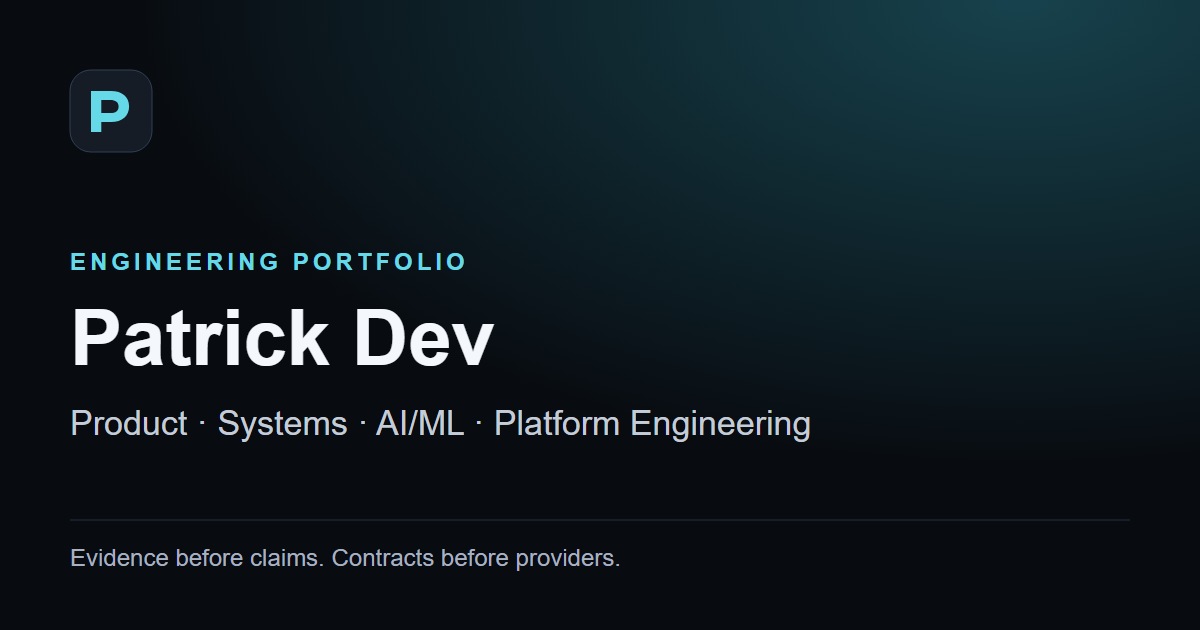
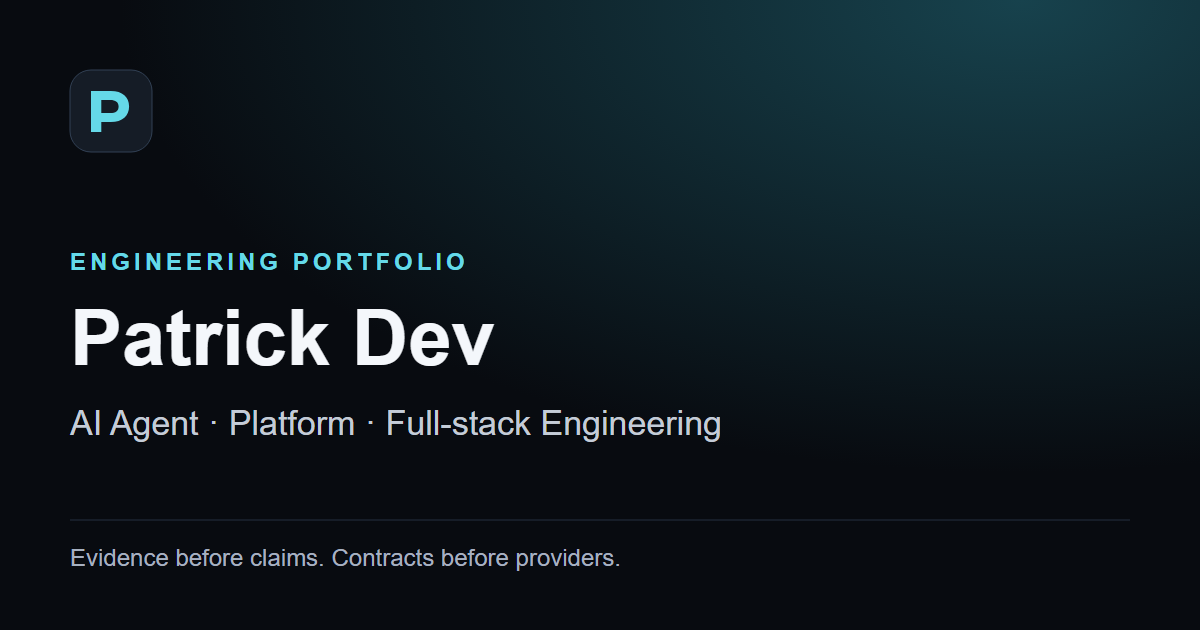
feat(portfolio): align public engineering identity (#7)

Changed region(s): [[0.0617, 0.6333, 0.6783, 0.6937]]

diff --git a/site/index.html b/site/index.html
@@ -3,8 +3,8 @@
   <head>
     <meta charset="utf-8">
     <meta name="viewport" content="width=device-width, initial-scale=1">
-    <title>Patrick Dev (PatrickDev-it) — Product &amp; Systems Engineer</title>
-    <meta name="description" content="Patrick Dev's evidence-led engineering portfolio: applied AI systems, bounded local operations, full-stack products, and privacy infrastructure.">
+    <title>Patrick Dev — AI Agent, Platform &amp; Full-stack Engineer</title>
+    <meta name="description" content="Patrick Dev's evidence-led portfolio for AI agents, platform engineering, and full-stack products, backed by bounded execution and release evidence.">
     <meta name="author" content="Patrick Dev">
     <meta name="google-site-verification" content="SDRpU9uekSorB0AMVWqNsg15J1lCjftGlEs79zDA-KM">
     <meta name="robots" content="index,follow,max-image-preview:large,max-snippet:-1,max-video-preview:-1">
@@ -20,16 +20,16 @@
     <meta property="og:type" content="profile">
     <meta property="og:locale" content="en_US">
     <meta property="og:site_name" content="Patrick Dev Engineering Portfolio">
-    <meta property="og:title" content="Patrick Dev (PatrickDev-it) — Engineering Portfolio">
-    <meta property="og:description" content="Applied AI systems, bounded local operations, full-stack products, and privacy infrastructure backed by verifiable evidence.">
+    <meta property="og:title" content="Patrick Dev — AI Agent, Platform &amp; Full-stack Engineer">
+    <meta property="og:description" content="AI agents, platform engineering, and full-stack products backed by bounded execution, portable operations, and verifiable release evidence.">
     <meta property="og:url" content="https://patrickdev-it.github.io/">
     <meta property="og:image" content="https://patrickdev-it.github.io/assets/social-card.png">
     <meta property="og:image:width" content="1200">
     <meta property="og:image:height" content="630">
-    <meta property="og:image:alt" content="Patrick Dev engineering portfolio: Product, Systems, AI/ML, and Platform Engineering">
+    <meta property="og:image:alt" content="Patrick Dev engineering portfolio: AI Agent, Platform, and Full-stack Engineering">
     <meta name="twitter:card" content="summary_large_image">
-    <meta name="twitter:title" content="Patrick Dev (PatrickDev-it) — Engineering Portfolio">
-    <meta name="twitter:description" content="Applied AI systems, bounded local operations, full-stack products, and privacy infrastructure backed by verifiable evidence.">
+    <meta name="twitter:title" content="Patrick Dev — AI Agent, Platform &amp; Full-stack Engineer">
+    <meta name="twitter:description" content="AI agents, platform engineering, and full-stack products backed by bounded execution, portable operations, and verifiable release evidence.">
     <meta name="twitter:image" content="https://patrickdev-it.github.io/assets/social-card.png">
     <meta name="twitter:image:alt" content="Patrick Dev engineering portfolio">
     <script type="application/ld+json">
@@ -49,9 +49,9 @@
             "@type": "ProfilePage",
             "@id": "https://patrickdev-it.github.io/#profile-page",
             "url": "https://patrickdev-it.github.io/",
-            "name": "Patrick Dev (PatrickDev-it) — Product & Systems Engineer",
+            "name": "Patrick Dev — AI Agent, Platform & Full-stack Engineer",
             "dateCreated": "2026-07-22",
-            "dateModified": "2026-07-22",
+            "dateModified": "2026-07-23",
             "inLanguage": "en",
             "isPartOf": {"@id": "https://patrickdev-it.github.io/#website"},
             "mainEntity": {"@id": "https://patrickdev-it.github.io/#patrick-dev"}
@@ -62,15 +62,16 @@
             "name": "Patrick Dev",
             "alternateName": "PatrickDev-it",
             "url": "https://patrickdev-it.github.io/",
-            "jobTitle": "Product & Systems Engineer",
-            "description": "Product and systems engineer building applied AI systems, bounded local operations, durable products, and privacy infrastructure.",
+            "jobTitle": "AI Agent, Platform & Full-stack Engineer",
+            "description": "Engineer building AI agents, platform capabilities, and full-stack products with bounded execution, durable workflows, portable operations, and release evidence.",
             "homeLocation": {"@type": "Place", "name": "Rome, Italy"},
             "sameAs": [
               "https://github.com/PatrickDev-it",
               "https://www.linkedin.com/in/patrickdev-it/"
             ],
             "knowsAbout": [
-              "Applied AI systems",
+              "AI agent engineering",
+              "Platform engineering",
               "Full-stack product engineering",
               "AI evaluation",
               "System operations",
@@ -113,11 +114,11 @@
 
     <main id="main">
       <section class="hero shell" aria-labelledby="hero-title">
-        <p class="eyebrow">Product · Systems · AI/ML · Platform Engineering</p>
+        <p class="eyebrow">AI Agent · Platform · Full-stack Engineering</p>
         <h1 id="hero-title">Engineering work designed to be verified.</h1>
         <p class="lead">
-          I build systems whose claims can be tested: applied AI tooling, bounded local operations,
-          durable product workflows, and authenticated privacy infrastructure.
+          I design, build, and deploy AI agents and product systems across model/runtime integration,
+          bounded tool execution, backend and web boundaries, infrastructure, and release evidence.
         </p>
         <div class="actions">
           <a class="button primary" href="#selected-work">Review selected work</a>

diff --git a/site/about/index.html b/site/about/index.html
@@ -4,7 +4,7 @@
     <meta charset="utf-8">
     <meta name="viewport" content="width=device-width, initial-scale=1">
     <title>About Patrick Dev (PatrickDev-it) — Engineering Method</title>
-    <meta name="description" content="Patrick Dev's engineering scope, operating principles, portfolio strategy, and evidence-led approach to product, systems, AI/ML, and platform work.">
+    <meta name="description" content="Patrick Dev's engineering scope and evidence-led approach to AI agents, platform capabilities, full-stack products, reliability, and portable operations.">
     <meta name="author" content="Patrick Dev">
     <meta name="robots" content="index,follow,max-image-preview:large,max-snippet:-1">
     <meta name="referrer" content="no-referrer">
@@ -19,7 +19,7 @@
     <meta property="og:locale" content="en_US">
     <meta property="og:site_name" content="Patrick Dev Engineering Portfolio">
     <meta property="og:title" content="About Patrick Dev — Engineering Method and Scope">
-    <meta property="og:description" content="An evidence-led approach to product, systems, AI/ML, reliability, and portable operations.">
+    <meta property="og:description" content="An evidence-led approach to AI agents, platform engineering, full-stack products, reliability, and portable operations.">
     <meta property="og:url" content="https://patrickdev-it.github.io/about/">
     <meta property="og:image" content="https://patrickdev-it.github.io/assets/social-card.png">
     <meta property="og:image:width" content="1200">
@@ -27,7 +27,7 @@
     <meta property="og:image:alt" content="Patrick Dev engineering portfolio">
     <meta name="twitter:card" content="summary_large_image">
     <meta name="twitter:title" content="About Patrick Dev (PatrickDev-it) — Engineering Method">
-    <meta name="twitter:description" content="An evidence-led approach to product, systems, AI/ML, reliability, and portable operations.">
+    <meta name="twitter:description" content="An evidence-led approach to AI agents, platform engineering, full-stack products, reliability, and portable operations.">
     <meta name="twitter:image" content="https://patrickdev-it.github.io/assets/social-card.png">
     <meta name="twitter:image:alt" content="Patrick Dev engineering portfolio">
     <script type="application/ld+json">
@@ -83,8 +83,8 @@
         <p class="eyebrow">About</p>
         <h1>Engineering breadth with explicit proof boundaries.</h1>
         <p class="lead">
-          I work across product, systems, AI/ML, backend reliability, and platform operations. The portfolio
-          is deliberately structured so each project proves a different form of engineering ownership.
+          I work as an AI agent, platform, and full-stack engineer. The portfolio is deliberately structured
+          so each project proves a different form of engineering ownership without hiding its limits.
         </p>
       </header>
 

diff --git a/scripts/validate_site.py b/scripts/validate_site.py
@@ -17,6 +17,8 @@ from xml.etree import ElementTree
 ROOT = Path(__file__).resolve().parents[1]
 SITE = ROOT / "site"
 ORIGIN = "https://patrickdev-it.github.io"
+PUBLIC_ROLE = "AI Agent, Platform & Full-stack Engineer"
+GOOGLE_SITE_VERIFICATION = "SDRpU9uekSorB0AMVWqNsg15J1lCjftGlEs79zDA-KM"
 TRACKING_SIGNATURES = (
     "google-analytics.com",
     "googletagmanager.com",
@@ -250,6 +252,10 @@ def main() -> int:
     featured_paths = [path for path, _repository in FEATURED_PROJECTS]
     home_parser = PageParser()
     home_parser.feed((SITE / "index.html").read_text(encoding="utf-8"))
+    if GOOGLE_SITE_VERIFICATION != meta_value(home_parser, "name", "google-site-verification"):
+        errors.append("site/index.html: missing or incorrect Google Search Console verification")
+    if PUBLIC_ROLE not in "".join(home_parser.title_text):
+        errors.append(f"site/index.html: title must expose the public role '{PUBLIC_ROLE}'")
     if home_parser.featured_links != featured_paths:
         errors.append(
             "site/index.html: featured project links must match the pinned repository order "
@@ -280,6 +286,16 @@ def main() -> int:
             "site/index.html: JSON-LD ItemList must match the pinned repository order "
             f"(expected={featured_paths}, actual={structured_paths})"
         )
+
+    people = [
+        node
+        for document in home_documents
+        if isinstance(document, dict)
+        for node in document.get("@graph", [])
+        if isinstance(node, dict) and node.get("@type") == "Person"
+    ]
+    if len(people) != 1 or people[0].get("jobTitle") != PUBLIC_ROLE:
+        errors.append(f"site/index.html: Person jobTitle must equal '{PUBLIC_ROLE}'")
 
     llms = (SITE / "llms.txt").read_text(encoding="utf-8") if (SITE / "llms.txt").exists() else ""
     project_section = llms.partition("## Project cases")[2].partition("## Primary sources")[0]

diff --git a/README.md b/README.md
@@ -1,6 +1,6 @@
 # Patrick Dev — static engineering portfolio
 
-The source for [patrickdev-it.github.io](https://patrickdev-it.github.io/), an evidence-led engineering portfolio optimized for fast delivery, accessible reading, search discovery, and low maintenance.
+The source for [patrickdev-it.github.io](https://patrickdev-it.github.io/), an evidence-led AI agent, platform, and full-stack engineering portfolio optimized for fast delivery, accessible reading, search discovery, and low maintenance.
 
 ## Design constraints
 
@@ -39,7 +39,7 @@ The validator fails on incomplete page or social metadata, missing or malformed 
 
 ## Deploy
 
-Pushes to `main` run validation, publish the exact `site/` directory with GitHub's official Pages workflow, and then notify IndexNow participants using the canonical sitemap. Search-engine notification runs after deployment and does not introduce browser-side code or data collection. There is no generated production output to drift from source.
+Pushes to `main` run validation, publish the exact `site/` directory with GitHub's official Pages workflow, and then notify IndexNow participants using the canonical sitemap. Search-engine notification runs after deployment and does not introduce browser-side code or data collection. Google Search Console ownership is verified with a homepage meta tag. There is no generated production output to drift from source.
 
 ## Maintenance
 